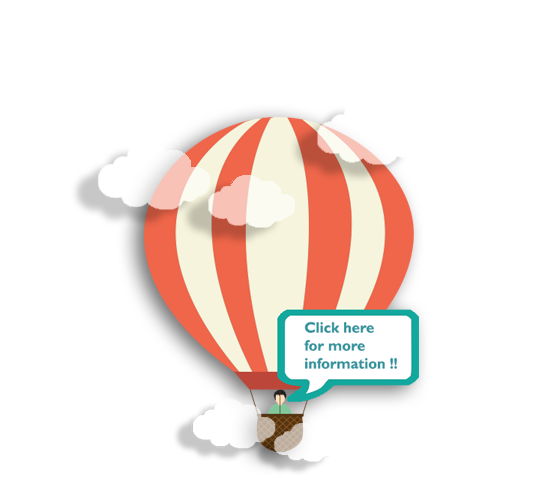
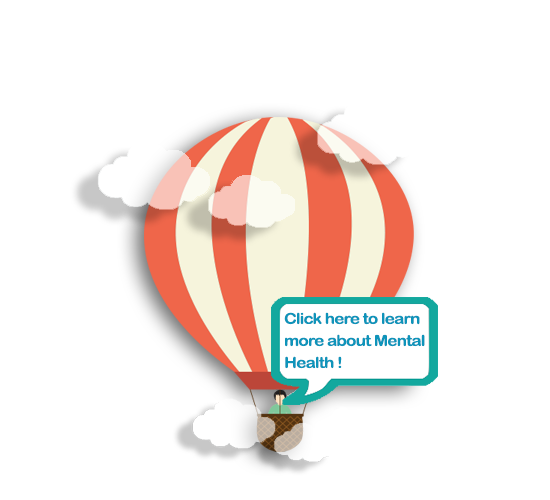
adding content
started adding content to the site

Changed region(s): [[0.4945, 0.57, 0.8036, 0.81]]

diff --git a/index.html b/index.html
@@ -83,7 +83,7 @@ jQuery(window).load(function() {
   })(window,document,'script','//www.google-analytics.com/analytics.js','ga');
 
 ga('create', 'UA-60468675-1', 'auto');
-ga('send', 'pageview');
+
   
 
 </script>
@@ -143,8 +143,33 @@ ga('send', 'pageview');
 		
 	 $("#stickynote").html('Sent an event: ' + $('#' + currentId).attr('data-vp-name')); 
 	 
+	 ga('send', 'pageview', $('#' + currentId).attr('data-vpn-name'));
+	 ga('send', 'pageview', {
+        'page': $('#' + currentId).attr('data-vpn-name'),
+        'title': 'scroll Section test1'
+});
+	 
+	ga('send', 'event', 'scroll Section test3', 'scroll Section test3', $    ('#' + currentId).attr('data-vpn-name'));
 	
-	ga('send','event', $('#' + currentId).attr('data-vpn-name'));
+	ga('send', {
+  'hitType': 'event',          // Required.
+  'eventCategory': 'scroll Section test2',   // Required.
+  'eventAction': 'scroll Section test2',      // Required.
+  'eventLabel': 'Sent an event: ' + $('#' + currentId).attr('data-vp-name') 
+  
+   // ga('send', 'pageview', $('#' + currentId).attr('data-vpn-name')); // Tracking Virtual pageviews with new Universal Analytics
+ 
+});
+	
+	
+	
+
+	
+	
+	// Tracking Virtual pageviews with new Universal Analytics
+    //_gaq.push(['_trackPageview', $('#' + currentId).attr('data-vpn-name')); // Tracking Virtual pageviews with old Google Analytics
+	
+	
 	
     }
   
@@ -320,13 +345,17 @@ ga('send', 'pageview');
 <div class="section s2" id="page2" data-stellar-background-ratio="0.5">
 <div id="b" class="box" data-vp-name="/pannel-b">
 
-          <h1>Section 2</h1>
+          
           
            <div id="plane">
            <img id="mainBg" src="images/airoplane.png" alt="airoplane"/>
            </div>
           
-           
+                      <a id="fancybox-manual-e" href="javascript:;"  onclick="ga('send','event','Good Mental Health','Good Mental Health')"><img id="teenhead1" src="images/teenhead1.png" class="animated infinite pulse"></a>
+          
+          
+          
+        
           
 		  <div class="aside stickem">
 		  <img src="images/balloon.png"/>
@@ -355,7 +384,7 @@ ga('send', 'pageview');
             
            
             <div id="parallax-cloudbg2" data-stellar-ratio="1">
-			<img src="images/cloud2.png" alt="cloud"/>
+			
 			</div>
             
              
@@ -383,7 +412,8 @@ ga('send', 'pageview');
 		<img src="images/cloud4.png" alt="cloud"/>
 		</div>         
          
-        
+         <a id="fancybox-manual-f" href="javascript:;"  onclick="ga('send','event','bad Mental Health','bad Mental Health')"><img id="teenhead2" src="images/teenhead2.png" class="animated infinite pulse"></a>
+          
         
         
          
@@ -580,6 +610,13 @@ $("#fancybox-manual-c").click(function() {
 			
 $("#fancybox-manual-d").click(function() {
 				$.fancybox.open('images/asset4.png');
+			});
+			
+$("#fancybox-manual-e").click(function() {
+				$.fancybox.open('images/goodmentalhealth.png');
+			});
+$("#fancybox-manual-f").click(function() {
+				$.fancybox.open('images/badmentalhealth.png');
 			});
 
 

diff --git a/css/style.css b/css/style.css
@@ -614,6 +614,22 @@ nav#nav-mobile {
 	z-index:5;
 }
 
+#teenhead1{
+	position:absolute;
+	top:0;
+	right:0;
+	z-index:5;
+	width:45%;
+}
+
+#teenhead2{
+	position:absolute;
+	top:550px;
+	left:0;
+	z-index:5;
+	width:45%;
+}
+
 
 
 
